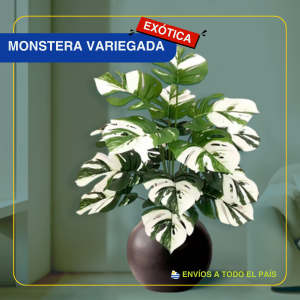
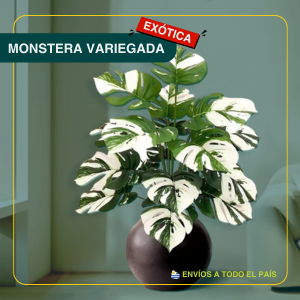
index listo, botones relacion de colores y hovers

diff --git a/css/style.css b/css/style.css
@@ -52,7 +52,7 @@ header {
 .navbar-toggler {
   border: none;
   padding: 0;
-  background-color: #022;
+  background-color: #044;
 }
 
 .navbar-toggler-icon {
@@ -60,7 +60,7 @@ header {
 }
 
 .menuburger {
-  background-color: #022;
+  background-color: #044;
   border-radius: 20px;
   margin-top: 30px;
 }
@@ -70,12 +70,12 @@ header {
 }
 
 .nav-link:hover {
-  color: rgb(180, 180, 60) !important;
+  color: rgb(210, 210, 59) !important;
 }
 
 .nav-link.active {
   background-color: rgb(151, 151, 36) !important;
-  color: #022 !important;
+  color: rgb(26, 105, 71) !important;
   border-radius: 20%;
 }
 
@@ -130,6 +130,10 @@ header {
   align-items: center;
 }
 
+.opcionmenu:hover {
+  filter: brightness(1.1);
+}
+
 section.login div {
   display: flex;
   flex-direction: column;
@@ -143,7 +147,7 @@ section.login a {
   width: 120px;
   border-radius: 10px;
   text-decoration: none;
-  background-color: rgb(180, 180, 60);
+  background-color: rgb(210, 210, 59);
   color: #fff;
 }
 
@@ -236,7 +240,7 @@ main {
 
 /* Botón catálogo */
 .btn-catalogo {
-  background-color: #2d6a4f;
+  background-color: #044;
   color: white;
   padding: 10px 22px;
   border-radius: 30px;
@@ -248,13 +252,10 @@ main {
   border-radius: 12px;
 }
 
-/* Badge */
-.badge-nuevo {
-  font-size: 0.9rem;
-  font-weight: bold;
+.btn-catalogo:hover {
+  filter: brightness(1.1);
 }
 
-/* ===== Boton animación ===== */
 /* ===== COMUNIDAD ===== */
 .comunidad {
   display: flex;
@@ -286,9 +287,10 @@ main {
 
 /* Título */
 .comunidad-card h2 {
-  color: #fff;
+  color: #044;
   margin: 0;
   font-size: 2rem;
+  font-weight: bold;
 }
 
 /* Párrafo */
@@ -672,10 +674,10 @@ footer {
 }
 
 .textoscomunidad h3 {
-  color: rgb(180, 180, 60);
+  color: rgb(210, 210, 59);
   text-align: center;
   margin-top: 30px;
-  background-color: #022;
+  background-color: rgb(26, 105, 71);
   border-radius: 20px;
 }
 
@@ -691,8 +693,8 @@ footer {
 /* ===== Título contacto ===== */
 .titulocontacto {
   text-align: center;
-  background-color: rgb(180, 180, 60);
-  color: #022;
+  background-color: rgb(210, 210, 59);
+  color: rgb(26, 105, 71);
   font-weight: bold;
   border-radius: 10px;
   margin-bottom: 30px;
@@ -757,9 +759,14 @@ footer {
   margin-bottom: 15px;
 }
 
+.titulopresentacion {
+  color: #fff;
+  font-weight: bold;
+}
+
 .margarita,
 .tomas {
-  background-color: rgb(180, 180, 60);
+  background-color: rgb(151, 151, 36);
   border-radius: 20px;
   padding: 20px;
   box-shadow: 0 6px 16px rgba(0, 0, 0, 0.08);

diff --git a/sass/layout/_main.scss b/sass/layout/_main.scss
@@ -52,22 +52,16 @@ main {
 /* Botón catálogo */
 .btn-catalogo {
 
-  @include mixins.boton(#2d6a4f);
+  @include mixins.boton(variables.$verde-oscuro);
   margin-top: 10px;
   align-self: center;
-  border-radius: 12px; // si querés distinto
+  border-radius: 12px; 
 }
 
 
-/* Badge */
-.badge-nuevo {
-  font-size: 0.9rem;
-  font-weight: bold;
+.btn-catalogo:hover {
+  filter: brightness(1.1);
 }
-
-
-/* ===== Boton animación ===== */
-
 
 /* ===== COMUNIDAD ===== */
 .comunidad {
@@ -94,9 +88,10 @@ main {
 
 /* Título */
 .comunidad-card h2 {
-  color:variables.$blanco;
+  color:variables.$verde-oscuro;
   margin: 0;
   font-size: 2rem;
+  font-weight: bold;
 }
 
 /* Párrafo */
@@ -117,7 +112,7 @@ main {
  .btn-comunidad {
   @include mixins.boton(variables.$verde-oscuro);
   display: inline-block;
-  border-radius: 40px; // override del mixin
+  border-radius: 40px; 
   margin-top: 30px;
   text-align: center;
 

diff --git a/sass/layout/_header.scss b/sass/layout/_header.scss
@@ -44,7 +44,7 @@ header {
 .navbar-toggler {
   border: none;     
   padding: 0;  
-  background-color: variables.$verde-muy-oscuro;
+  background-color: variables.$verde-oscuro;
  
 }
 
@@ -53,7 +53,7 @@ header {
 }
 
 .menuburger {
-    background-color:variables.$verde-muy-oscuro;
+    background-color:variables.$verde-oscuro;
     border-radius: 20px;
     margin-top: 30px;
 }
@@ -123,7 +123,9 @@ header {
 
 }
 
-
+.opcionmenu:hover {
+  filter: brightness(1.1);
+}
 
 section.login div {
     display: flex;

diff --git a/sass/layout/_mainnosotros.scss b/sass/layout/_mainnosotros.scss
@@ -16,9 +16,16 @@
     margin-bottom: 15px;
 }
 
+.titulopresentacion{
+    color: variables.$blanco;
+    font-weight: bold
+}
+
+
+
 .margarita,
 .tomas {
-  @include mixins.card-base(variables.$amarillo-hover);
+  @include mixins.card-base(variables.$amarillo-principal);
   margin-bottom: 20px;
 }
 

diff --git a/sass/utilities/_variables.scss b/sass/utilities/_variables.scss
@@ -3,11 +3,11 @@
 /*Colores base*/
 
 $verde-oscuro: #044;
-$verde-muy-oscuro: #022;
+$verde-muy-oscuro: rgb(26, 105, 71);
 
 
 $amarillo-principal: rgb(151, 151, 36);
-$amarillo-hover: rgb(180, 180, 60);
+$amarillo-hover: rgb(210, 210, 59);
 
 $blanco: #fff;
 $negro: #000;
